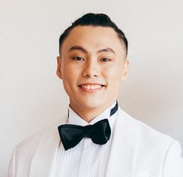
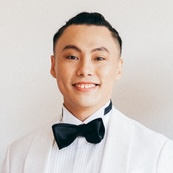
blog: Adjust PIXIU post metadata and update profile picture

diff --git a/_posts/2025-03-11-pixiu.md b/_posts/2025-03-11-pixiu.md
@@ -1,7 +1,7 @@
 ---
+title: 'Bridging the Gap in Financial AI How PIXIU is Pushing LLMs Forward'
 date: 2025-03-11
 permalink: /posts/2025/03/pixiu-review/
-title: "Bridging the Gap in Financial AI How PIXIU is Pushing LLMs Forward"
 tags:
   - LLM
   - Finance
